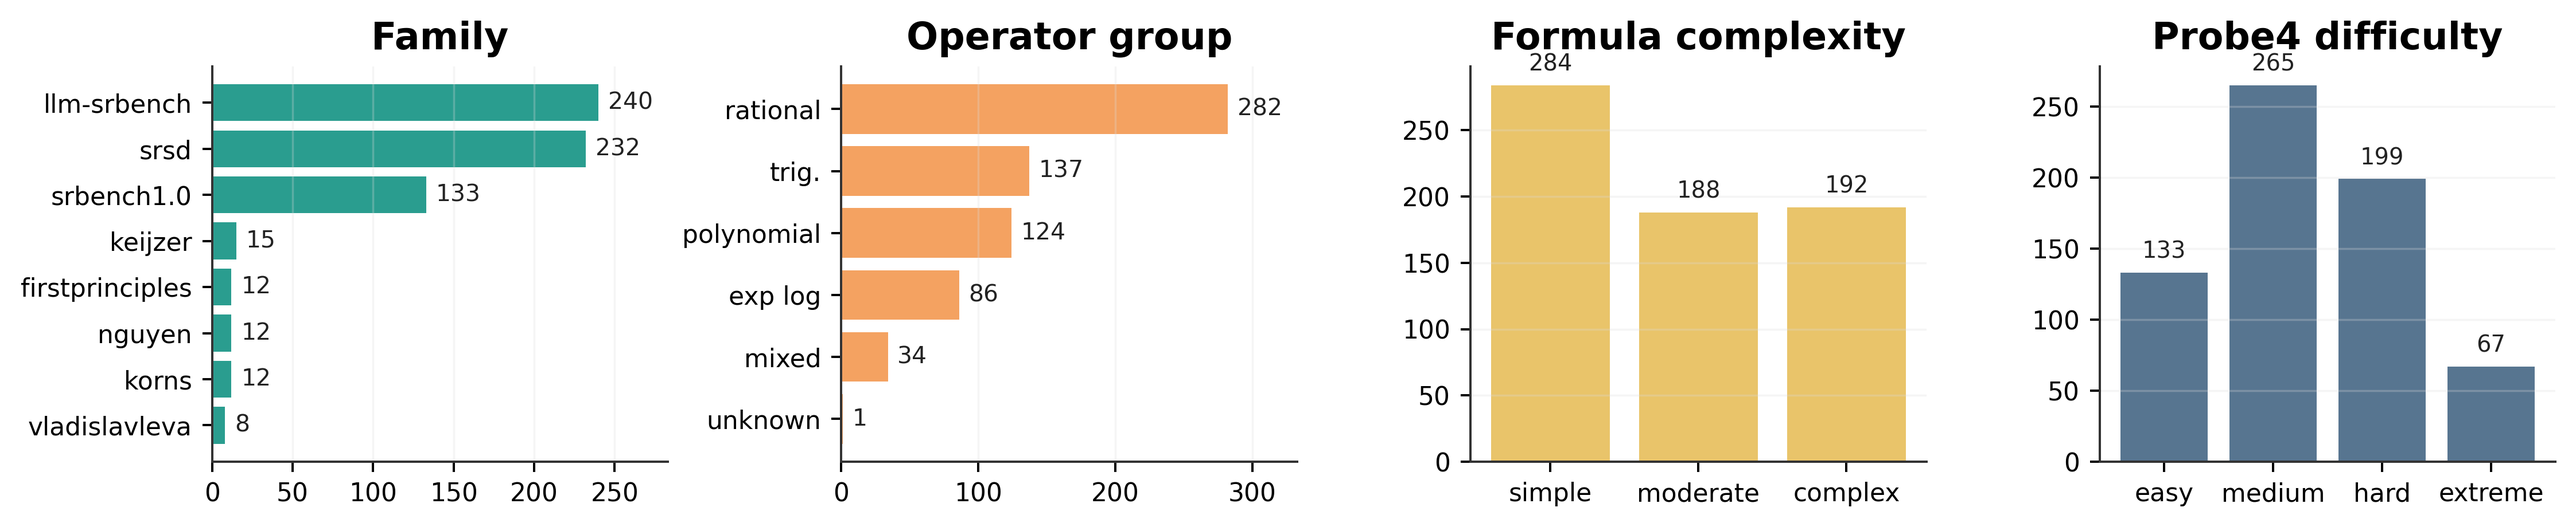
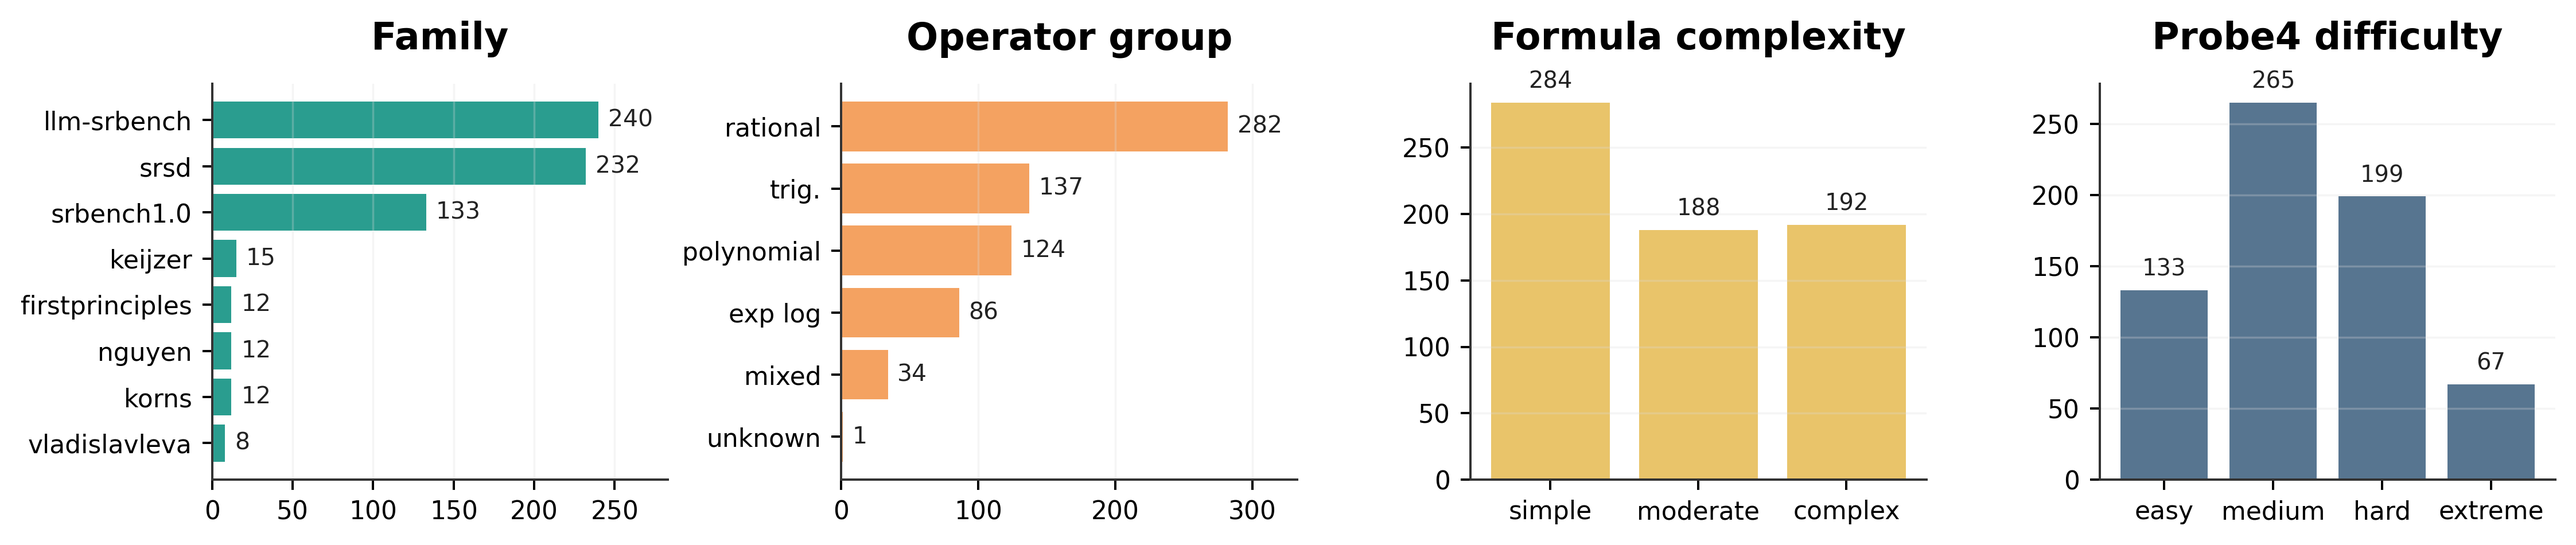
[update] 增加数据池组成图标题间距

diff --git a/check/plot_paper_experiment_figures.py b/check/plot_paper_experiment_figures.py
@@ -365,6 +365,8 @@ def plot_pipeline(record: list[FigureRecord]) -> None:
 
 
 def plot_reservoir_composition(dataset_level: pd.DataFrame, record: list[FigureRecord]) -> None:
+    title_pad = 12
+
     def wrap_label(text: Any, width: int = 13) -> str:
         label = re.sub(r"[_/]+", " ", str(text))
         label = re.sub(r"\s+", " ", label).strip()
@@ -394,7 +396,7 @@ def plot_reservoir_composition(dataset_level: pd.DataFrame, record: list[FigureR
     family_labels = ["firstprinciples" if str(x) == "srbench2025/firstprinciples" else x for x in family.index]
     family_y = np.arange(len(family))
     axes[0].barh(family_y, family.values, color="#2a9d8f")
-    axes[0].set_title("Family", loc="center", x=0.5, fontsize=13)
+    axes[0].set_title("Family", loc="center", x=0.5, fontsize=13, pad=title_pad)
     axes[0].set_yticks(family_y)
     axes[0].set_yticklabels([wrap_label(x, 14) for x in family_labels])
     axes[0].invert_yaxis()
@@ -412,7 +414,7 @@ def plot_reservoir_composition(dataset_level: pd.DataFrame, record: list[FigureR
     op_labels = [op_label_map.get(str(x), x) for x in op.index]
     op_y = np.arange(len(op))
     axes[1].barh(op_y, op.values, color="#f4a261")
-    axes[1].set_title("Operator group", loc="center", x=0.5, fontsize=13)
+    axes[1].set_title("Operator group", loc="center", x=0.5, fontsize=13, pad=title_pad)
     axes[1].set_yticks(op_y)
     axes[1].set_yticklabels([wrap_label(x, 14) for x in op_labels])
     axes[1].invert_yaxis()
@@ -424,7 +426,7 @@ def plot_reservoir_composition(dataset_level: pd.DataFrame, record: list[FigureR
     complexity_order = ["simple", "moderate", "complex"]
     complexity = dataset_level["complexity_bin"].fillna("unknown").value_counts().reindex(complexity_order + ["unknown"]).dropna()
     axes[2].bar(np.arange(len(complexity)), complexity.values, color="#e9c46a")
-    axes[2].set_title("Formula complexity", loc="center", x=0.5, fontsize=13)
+    axes[2].set_title("Formula complexity", loc="center", x=0.5, fontsize=13, pad=title_pad)
     axes[2].set_xticks(np.arange(len(complexity)))
     axes[2].set_xticklabels([wrap_label(x, 12) for x in complexity.index], rotation=0)
     add_bar_labels(axes[2], complexity.values)
@@ -432,7 +434,7 @@ def plot_reservoir_composition(dataset_level: pd.DataFrame, record: list[FigureR
     difficulty_order = ["easy", "medium", "hard", "extreme"]
     difficulty = dataset_level["difficulty_bin"].fillna("unknown").value_counts().reindex(difficulty_order + ["unknown"]).dropna()
     axes[3].bar(np.arange(len(difficulty)), difficulty.values, color="#577590")
-    axes[3].set_title("Probe4 difficulty", loc="center", x=0.5, fontsize=13)
+    axes[3].set_title("Probe4 difficulty", loc="center", x=0.5, fontsize=13, pad=title_pad)
     axes[3].set_xticks(np.arange(len(difficulty)))
     axes[3].set_xticklabels([wrap_label(x, 12) for x in difficulty.index], rotation=0)
     add_bar_labels(axes[3], difficulty.values)
